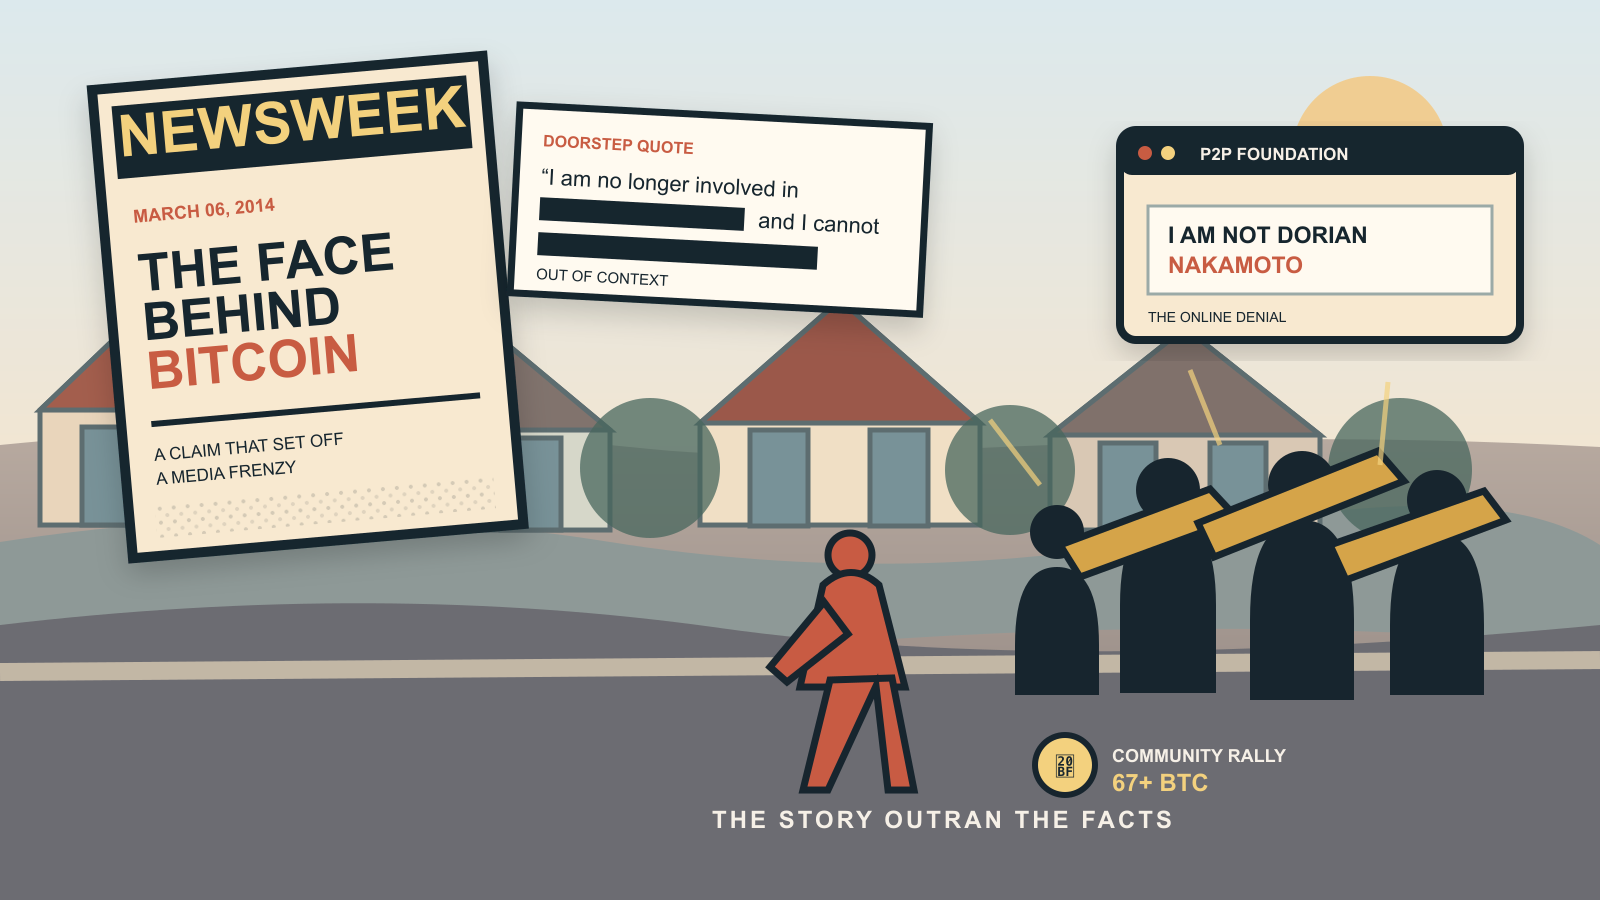
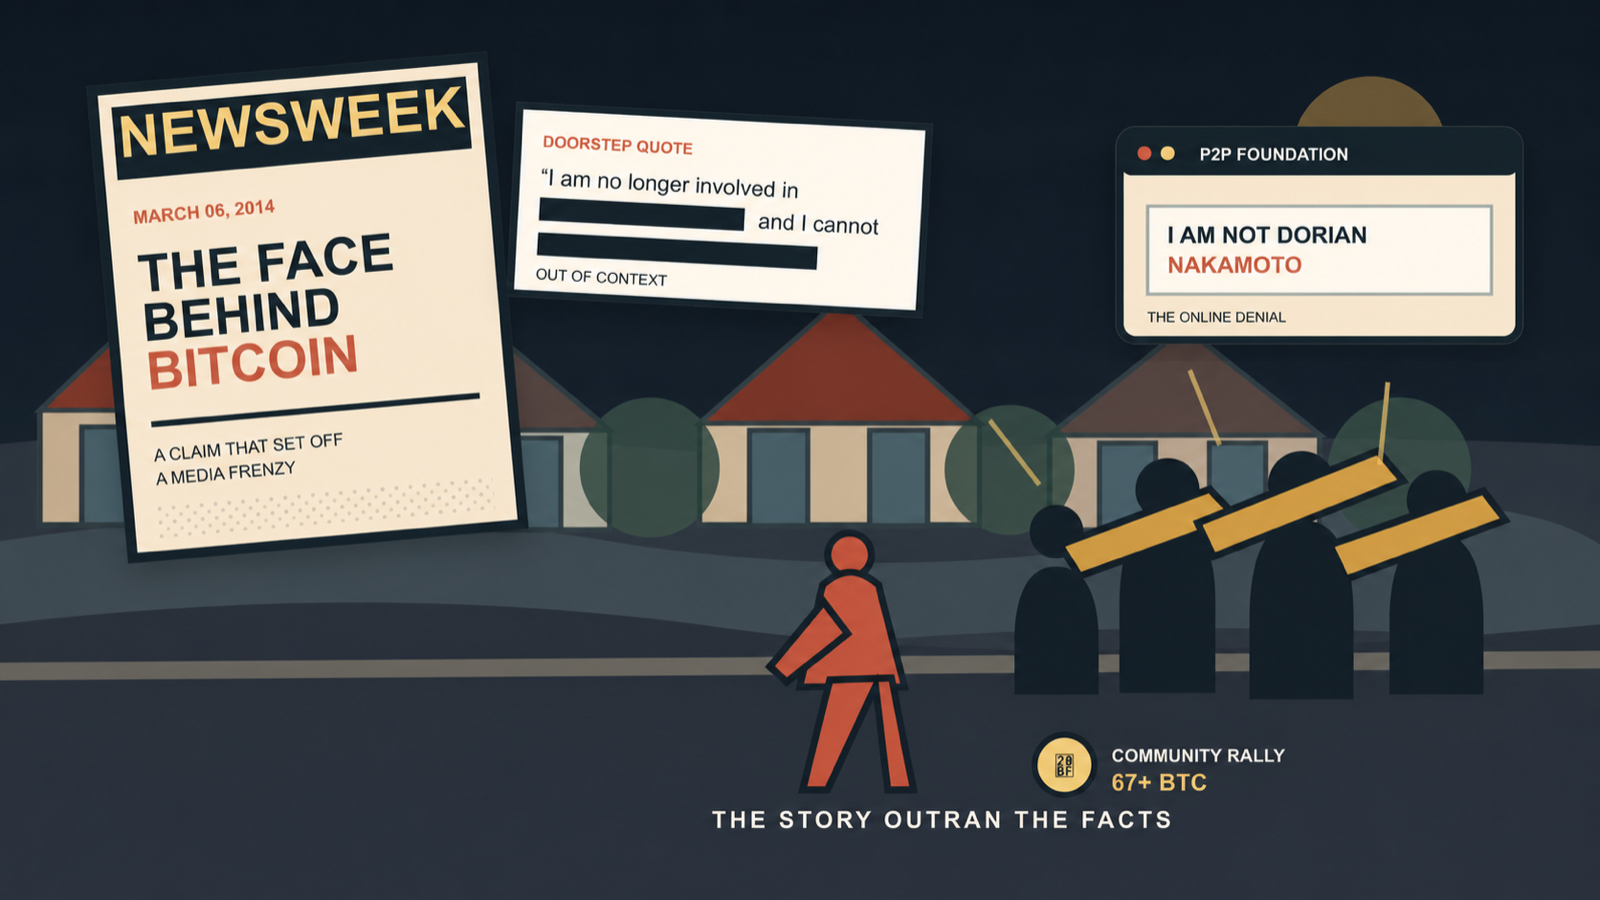
Require dark-toned hero image backgrounds, fix 5 non-compliant ones
STYLE_GUIDE_CORE.md's Hero Images section had no background-color
requirement; a 2026-07-20 rollout deliberately generated 265 images
without a style prompt and accepted the resulting palette diversity.
That acceptance is overridden here: hero illustrations must now use a
dark-toned background (navy, near-black, deep charcoal).

Scanned all 302 existing hero images (pixel-average luminance plus
direct visual check on every borderline case) and found 5 with a
light background: Gavin Andresen and Paul Le Roux biographies, the
James Donald identity-hypothesis analysis, and the Wei Dai and
Newsweek/Dorian Nakamoto articles. Regenerated each via codex-image,
preserving composition and content, background only.

diff --git a/STYLE_GUIDE_CORE.md b/STYLE_GUIDE_CORE.md
@@ -490,8 +490,18 @@ after it.
   image must be English.
 - Require: ~1600×900 PNG (an SVG rendered via a headless browser is
   the usual path), no real human face or photographic likeness of
-  any named person, and all in-image text labels in English only
-  (the image is shared by both locale pages).
+  any named person, all in-image text labels in English only
+  (the image is shared by both locale pages), and a **dark-toned
+  background** (navy, near-black, deep charcoal — not white, cream,
+  or pale). This is a deliberate visual-identity choice, distinct
+  from `STYLE_GUIDE_VISUAL.md`'s "Editorial Sans — Inter on a white
+  surface," which describes the site's page chrome (body/UI), not
+  hero illustrations. (2026-07-20's rollout deliberately generated
+  without a style prompt and accepted the resulting palette
+  inconsistency; 2026-08-30 confirmed that acceptance was itself an
+  oversight and set this dark-background requirement going forward.
+  Pre-existing light-background hero images are a known backlog, not
+  a new violation to flag per-entry.)
 - Save to `public/images/analysis/<slug>-hero.png` regardless of the
   entry's actual type directory (`aftermath/`, `design/`, etc.) — the
   directory name predates this feature's scope beyond `analysis` and
@@ -509,9 +519,10 @@ after it.
 **Verify before committing a hero image**: the defect above is easy to
 miss on a dark page. Read the corner and edge pixels rather than
 eyeballing the thumbnail — all four edges should be the image's own
-background colour, never `#ffffff`, and the render must be exactly
-1600×900. A shifted-by-8px render is 1600×900 too, so size alone does
-not prove it is correct. Then look at the image itself for the errors
+background colour, never `#ffffff`, that background colour should
+itself be dark-toned (see the Generation requirement above), and the
+render must be exactly 1600×900. A shifted-by-8px render is 1600×900
+too, so size alone does not prove it is correct. Then look at the image itself for the errors
 a pixel check cannot catch: labels overlapping each other or a shape,
 a curve pointing the wrong way, and any factual claim baked into the
 artwork (an in-image label is as much a published claim as body prose,
